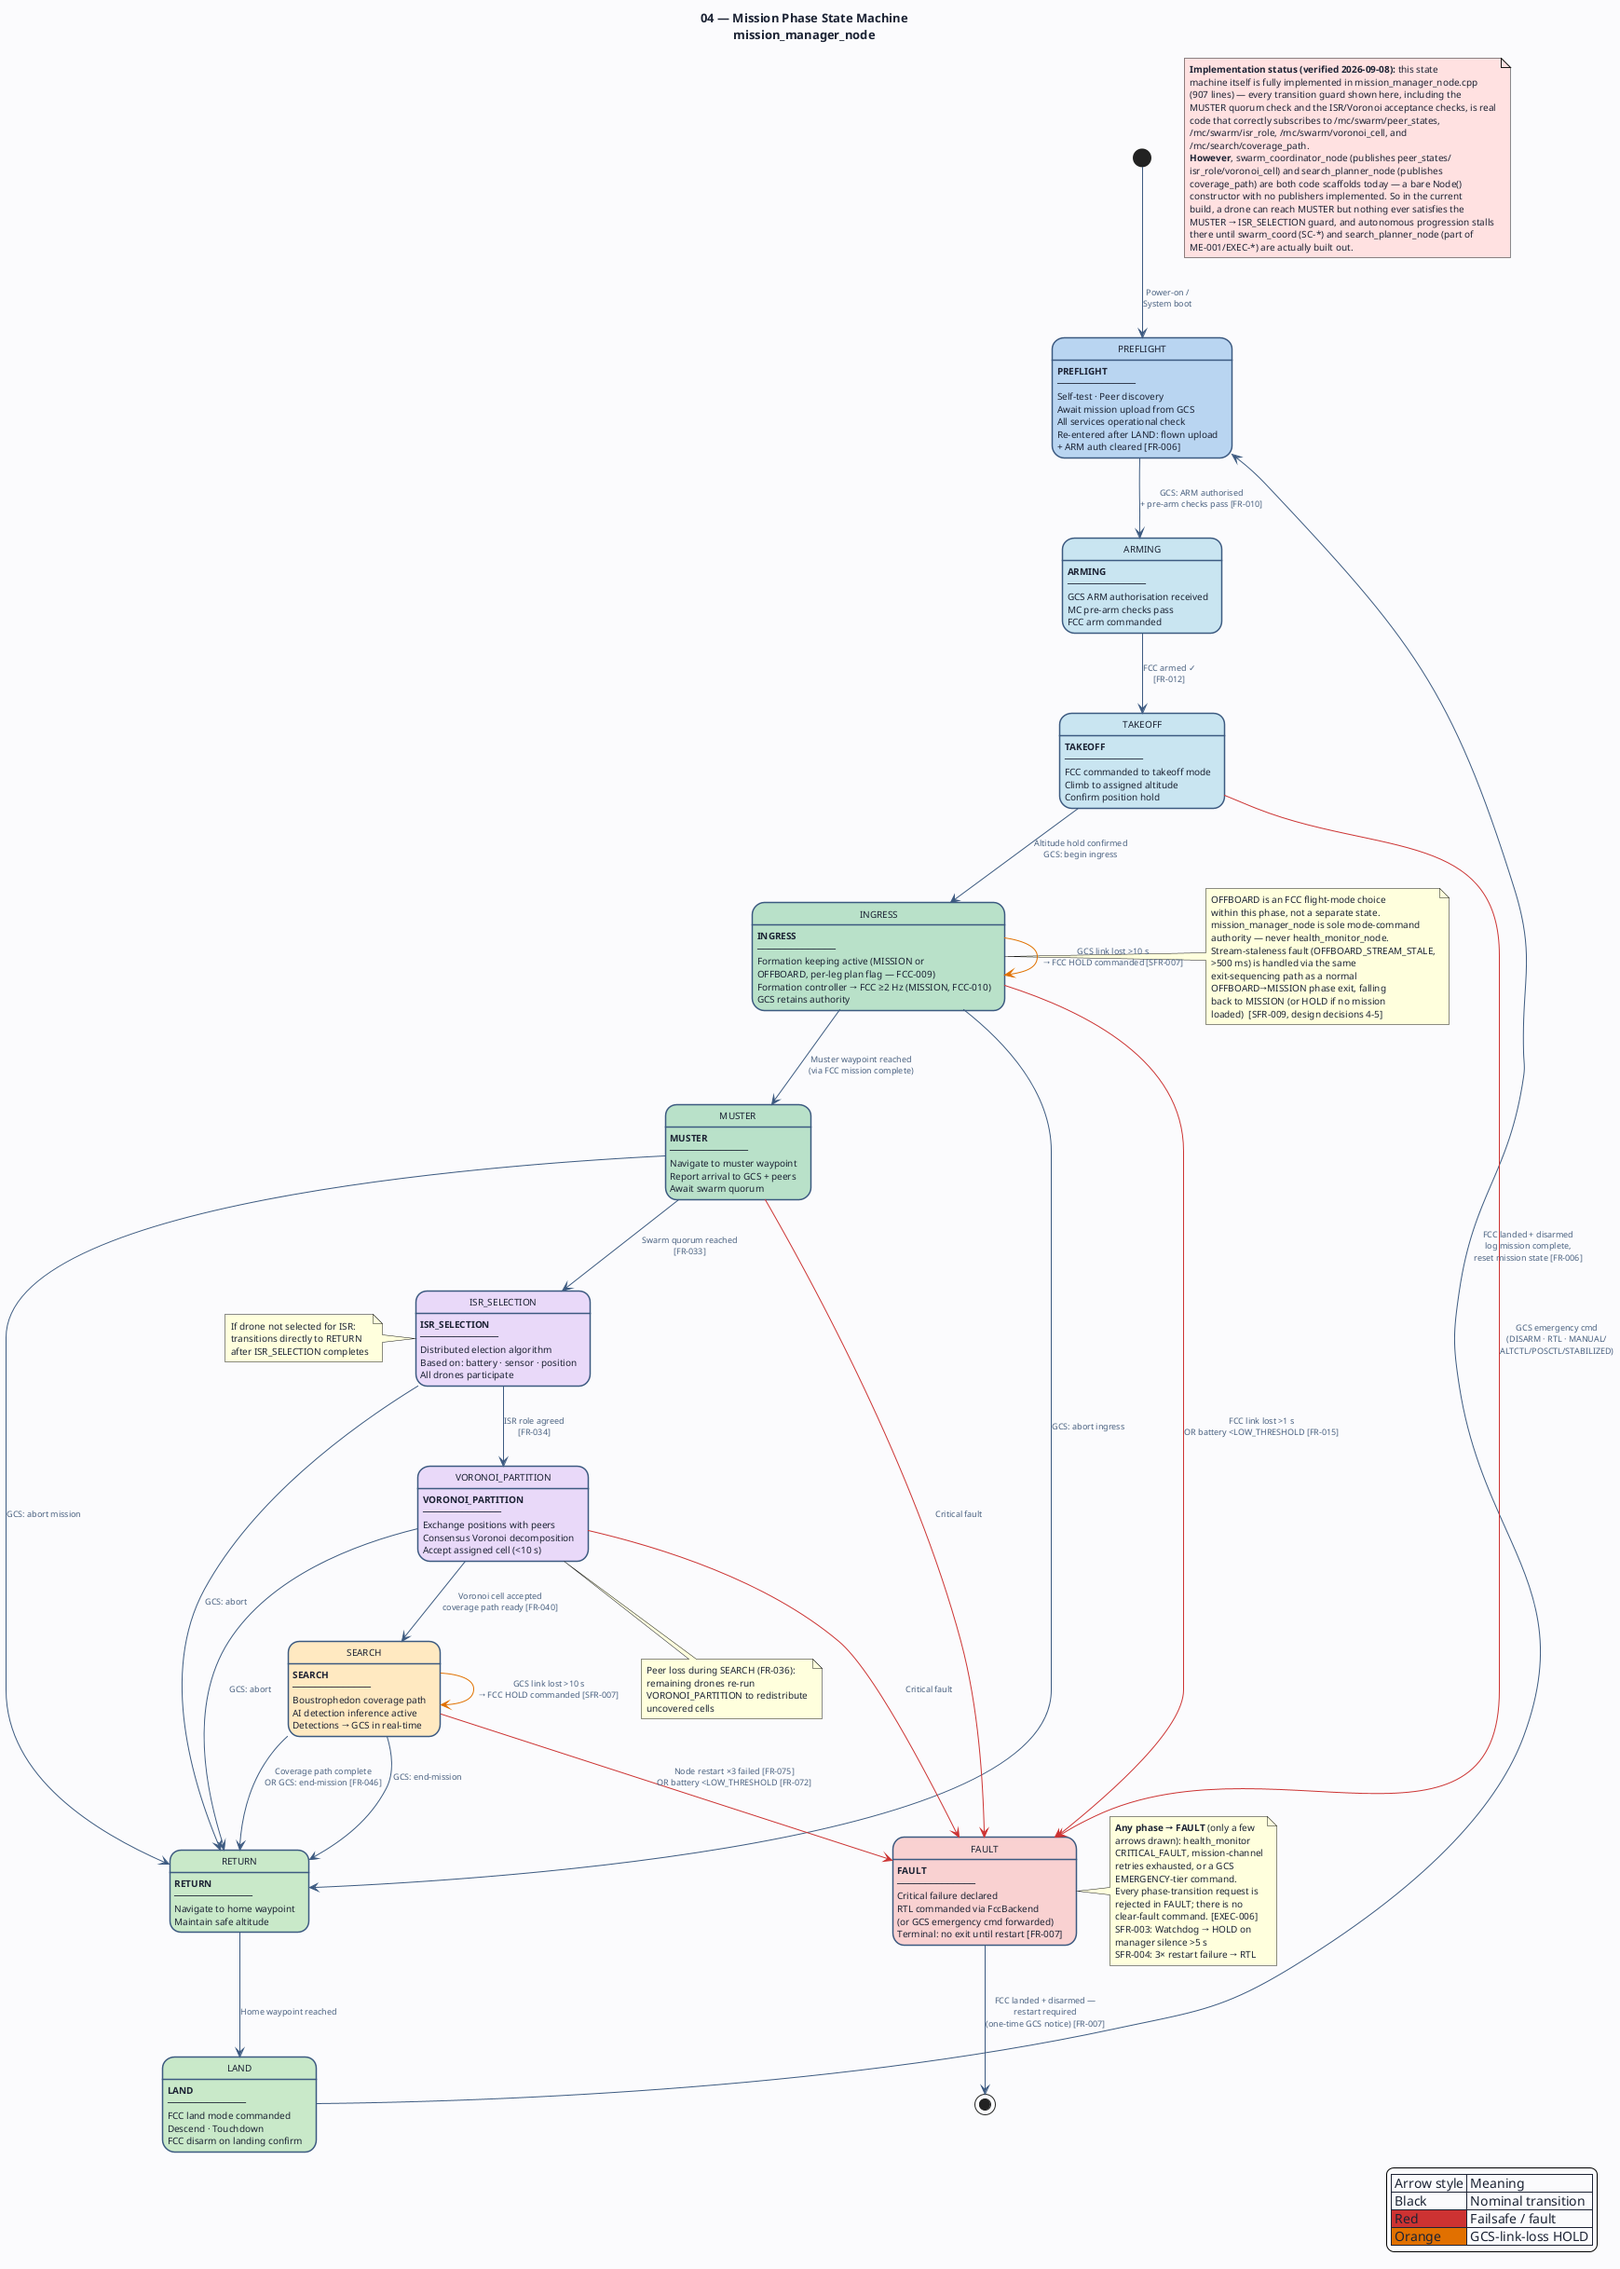
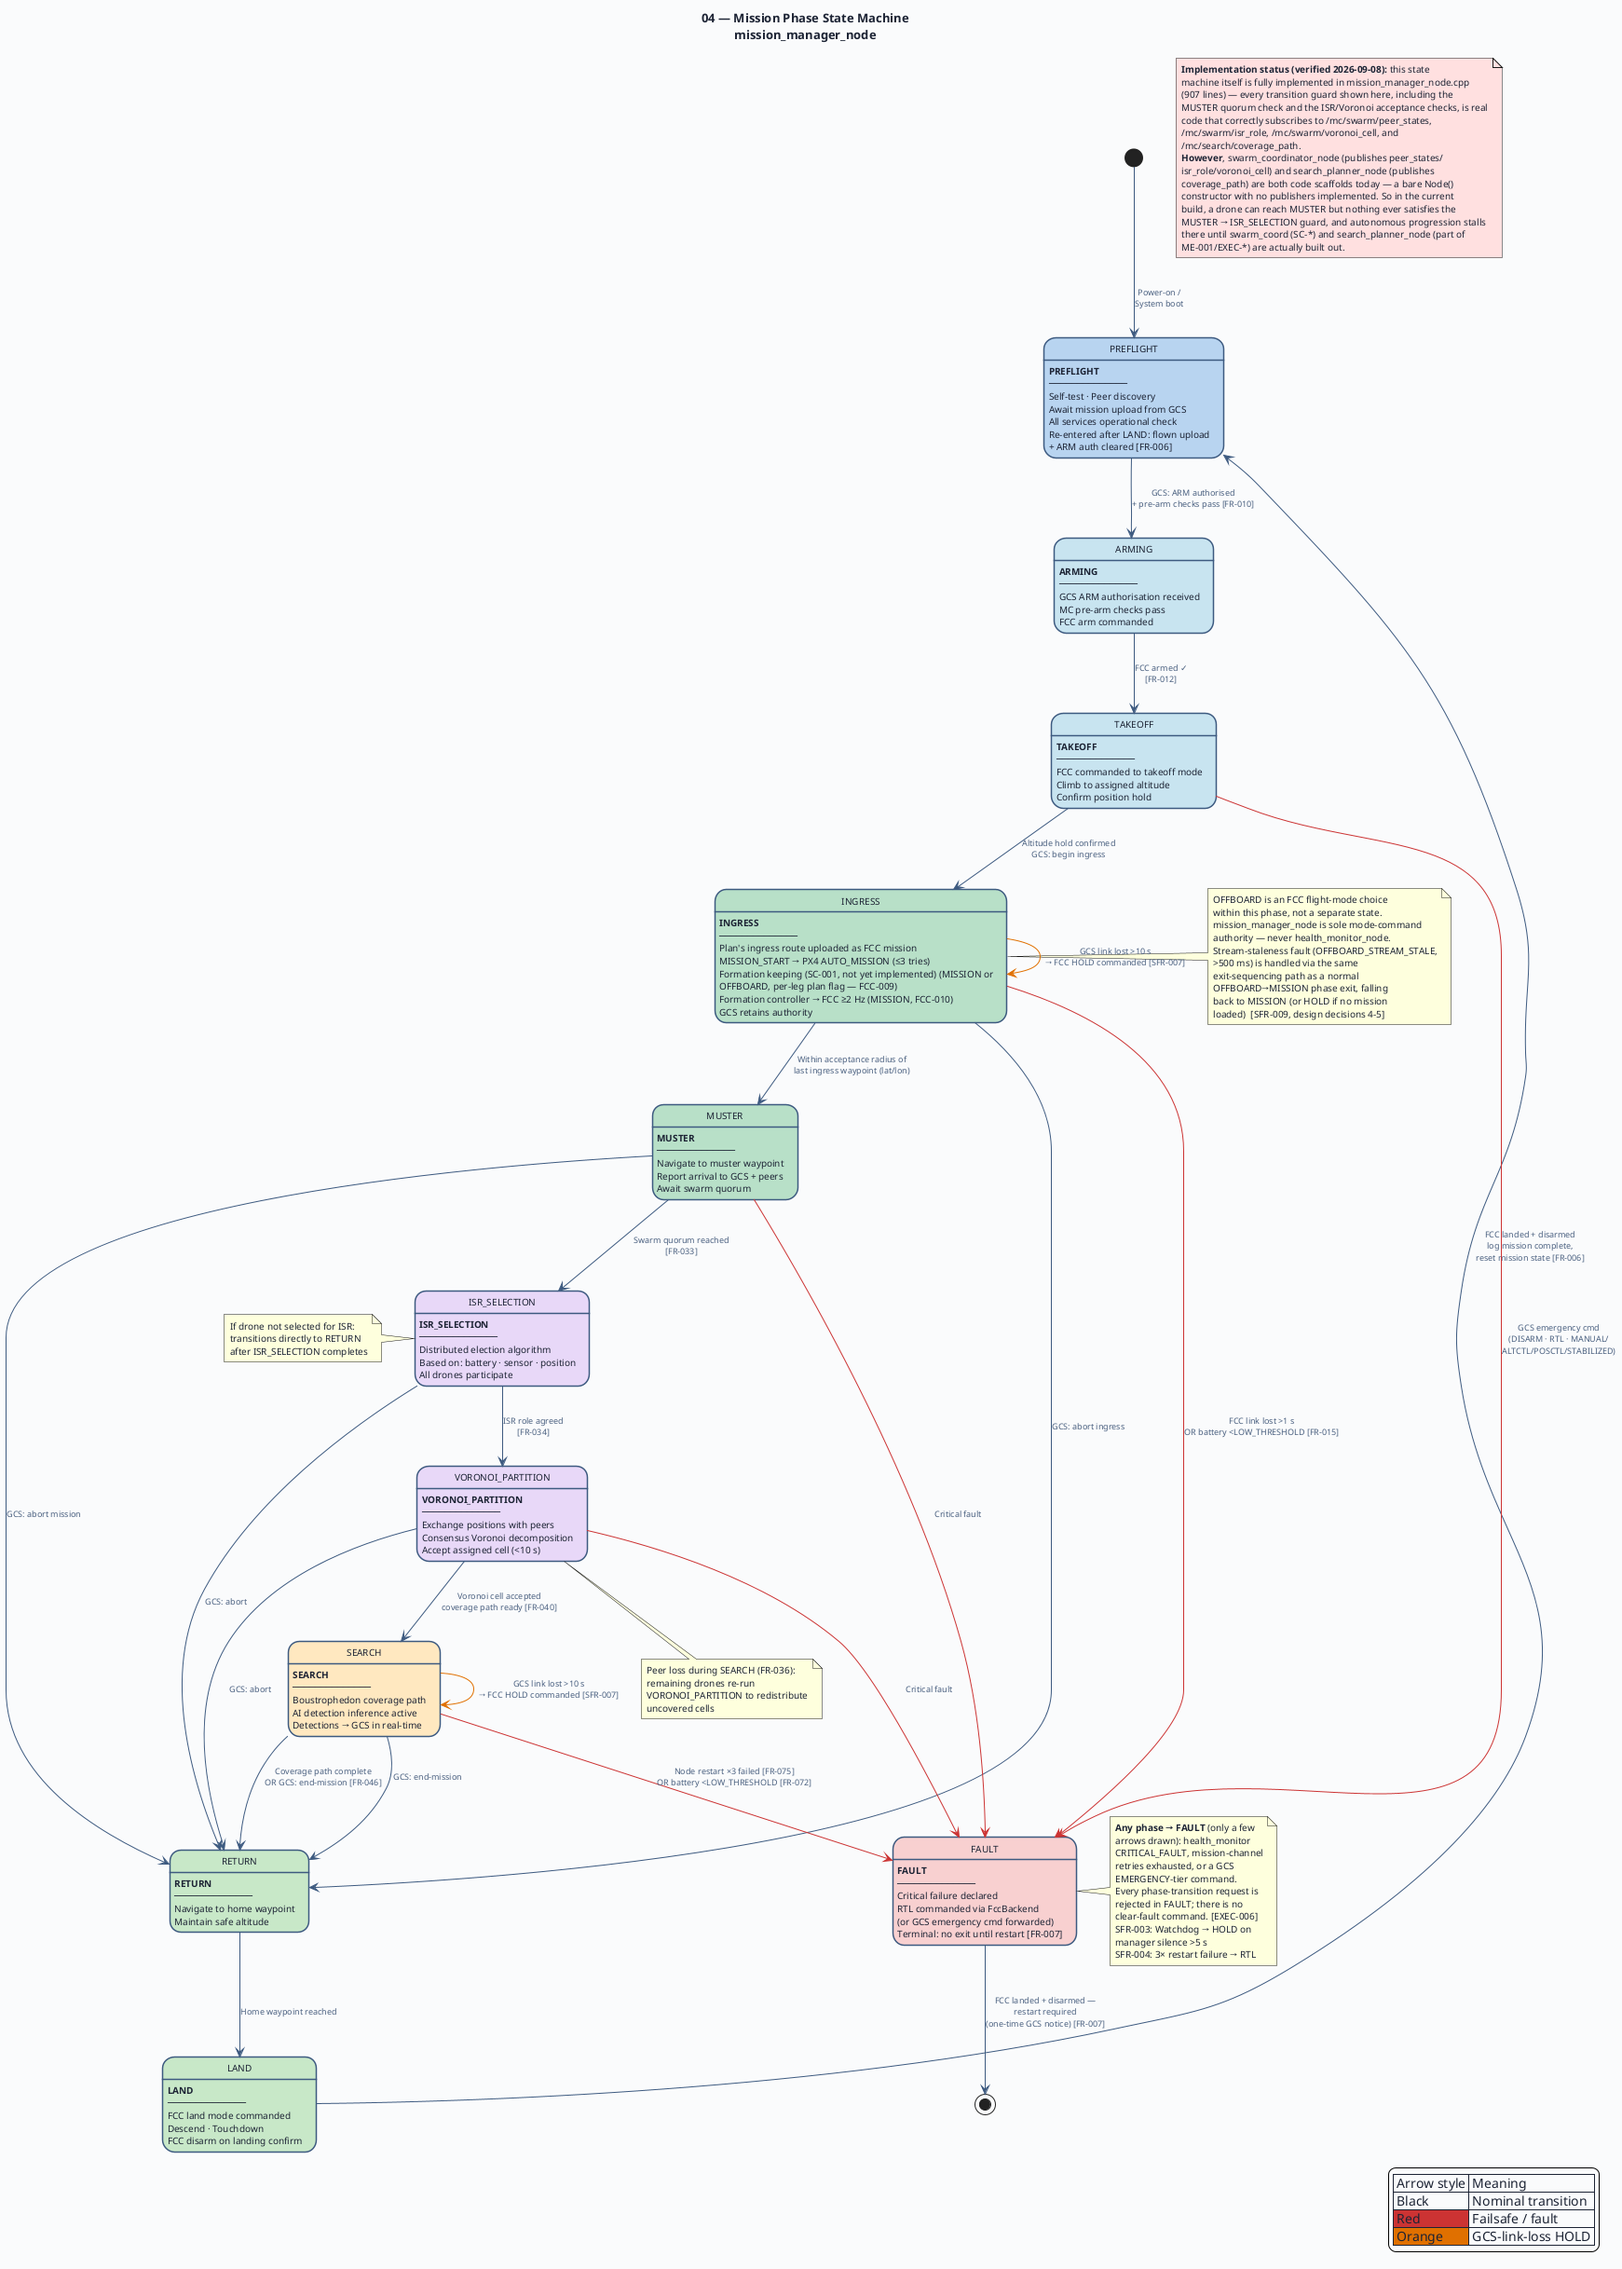
docs: update ingress route handling and state machine diagram for clarity

diff --git a/docs/design/SDD-MC-001.md b/docs/design/SDD-MC-001.md
@@ -312,8 +312,10 @@ using TransitionTable = std::vector<Transition>;
 |---|---|---|---|
 | `PREFLIGHT` | `ARMING` | GCS ARM auth received AND pre-arm checks pass | Log entry; notify swarm |
 | `ARMING` | `TAKEOFF` | FCC arming_state == ARMED | Send TAKEOFF command to FCC |
-| `TAKEOFF` | `INGRESS` | FCC at target altitude AND GCS INGRESS command | Upload reserved formation slot (seq 0), switch FCC to MISSION mode targeting it, enable formation controller |
-| `INGRESS` | `MUSTER` | FCC waypoint complete (muster point reached) | Disable formation ctrl; notify GCS |
+| `TAKEOFF` | `INGRESS` | FCC at target altitude AND GCS INGRESS command AND the plan has ≥1 `ingress_waypoints` entry | Upload the plan's `ingress_waypoints` as the FCC mission (`MAV_FRAME_GLOBAL_RELATIVE_ALT_INT`, alt above home); on `MISSION_ACK`, send `MAV_CMD_MISSION_START` (resent ≤3× at 1 s until `nav_state` = AUTO_MISSION, then a CRITICAL STATUSTEXT and hold — never a FAULT) |
+| `INGRESS` | `MUSTER` | Vehicle within `waypoint_acceptance_radius_m` (horizontal, lat/lon) of the last `ingress_waypoints` entry (muster point) | Disable formation ctrl; notify GCS |
+
+> **Ingress fix (2026-10-15, PR #21):** TAKEOFF → INGRESS used to upload a one-item `FORMATION_SLOT` placeholder at the vehicle's own position, which `formation_controller_node` (SC-001) was meant to overwrite but never does, and nothing ever switched PX4 into MISSION mode — so the vehicle just held. Every drone now flies the plan's own ingress route; SC-001's follower behaviour (§5) will build on this once implemented. `send_ingress_route_upload()`/`send_mission_start()`/`check_mission_start()` in `mission_manager_node.cpp`.
 | `MUSTER` | `ISR_SELECTION` | All peers in MUSTER AND quorum count met | Signal swarm_coordinator |
 | `ISR_SELECTION` | `VORONOI_PARTITION` | ISR result ACKed by all peers | Signal swarm_coordinator |
 | `VORONOI_PARTITION` | `SEARCH` | Voronoi cell accepted AND coverage path received | Upload path to FCC; enable detection |

diff --git a/docs/design/ICD-MC-001.md b/docs/design/ICD-MC-001.md
@@ -284,11 +284,11 @@ Driven by: `fcc_bridge_node`'s `FccBackend` implementation, on behalf of `search
 
 | Field | Type | Unit | Description |
 |---|---|---|---|
-| `seq` | `uint16` | — | Item index; `0` is reserved as `FORMATION_SLOT` during INGRESS (SDD §5) |
-| `frame` | `uint8` | — | `MAV_FRAME_GLOBAL_INT` |
+| `seq` | `uint16` | — | Item index. Design: `0` reserved as `FORMATION_SLOT` during INGRESS (SDD §5, SC-001 — not yet implemented); today INGRESS uploads the plan's `ingress_waypoints` as items `0..N-1` |
+| `frame` | `uint8` | — | `MAV_FRAME_GLOBAL_INT` (6, `MAV_FRAME_GLOBAL_RELATIVE_ALT_INT`, for the INGRESS route — its `alt` is m above home) |
 | `command` | `uint16` | — | `MAV_CMD_NAV_WAYPOINT` (16); `MAV_CMD_NAV_LOITER_UNLIM` (17) for terminal items |
 | `lat`, `lon` | `int32` | 1e7 deg | Target position |
-| `alt` | `float32` | m MSL | Target altitude |
+| `alt` | `float32` | m MSL (m above home when `frame` = 6) | Target altitude |
 | `acceptance_radius` | `float32` | m | See SDD §5.2 for the widened radius used on `FORMATION_SLOT` |
 
 **`upload_mission(items)` — full handshake** (`search_planner_node` via `mission_manager_node`, FR-013; infrequent, on mission change only):
@@ -1341,7 +1341,9 @@ float32 d              # m NED Down offset
 # Full mission data uploaded by GCS
 std_msgs/Header header
 uint32 upload_id                          # Unique ID for this upload
-# Ingress waypoints
+# Ingress waypoints: position.x = lat (deg), position.y = lon (deg),
+# position.z = alt (m above home) -- as both gcs_mavlink_node and
+# mission_orchestrator_node decode them. Last entry = muster point.
 geometry_msgs/PoseStamped[] ingress_waypoints
 # Formation offsets [drone_id, N, E, D]
 mc_msgs/FormationOffset[] formation_offsets

diff --git a/docs/GETTING-STARTED.md b/docs/GETTING-STARTED.md
@@ -35,6 +35,8 @@ sudo reboot
 sudo ./scripts/01b-smoke-test-os.sh
 
 # 1. Build the ros2-core base Docker image (all service images FROM this)
+#    Every build script runs scripts/require-docker.sh first: if Docker is missing
+#    or its daemon is down, it says so (with install steps) instead of a misleading DNS error.
 sudo ./scripts/04-install-ros2-core.sh
 sudo ./scripts/04b-smoke-test-ros2.sh
 sudo ./scripts/04c-smoke-test-dds.sh
